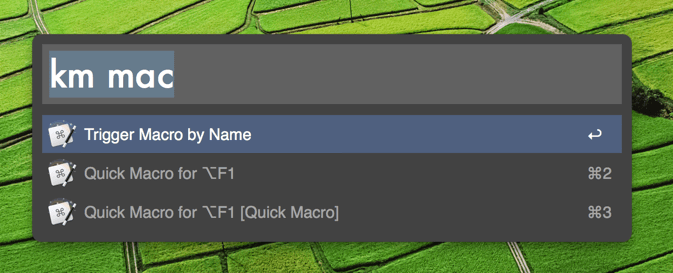
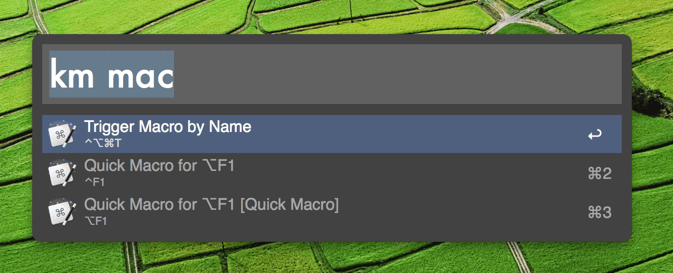
Display macro hotkey in item's subtitle #8

Changed region(s): [[0.1248, 0.7033, 0.4993, 0.8205], [0.1248, 0.4396, 0.3744, 0.5568], [0.1248, 0.5861, 0.3432, 0.674]]

diff --git a/macros.go b/macros.go
@@ -27,44 +27,79 @@ type KmMacro struct {
 	UID      string
 	Name     string
 	Category string
+	Hotkey   string
 }
 
-func getKmMacros() ([]KmMacro, error) {
+func getKmMacros() (map[string]KmMacro, error) {
 	// Allow to change the command for fetching macros, so the function could be unit-tested
-	command := os.Getenv("KM_MACROS_FETCH_COMMAND")
-	if command == "" {
-		command = "osascript ./km.scpt"
+	getAllMacrosCommand := os.Getenv("GET_ALL_KM_MACROS_COMMAND")
+	if getAllMacrosCommand == "" {
+		getAllMacrosCommand = "osascript ./get_all_km_macros.scpt"
 	}
 
-	out, err := exec.Command("sh", "-c", command).Output()
-
+	categoriesWithAllMacros, err := getKmCategories(getAllMacrosCommand)
 	if err != nil {
-		return nil, errors.New("Unable to get macros from Keyboard Maestro")
+		return nil, err
 	}
 
-	if !strings.Contains(string(out), "<?xml") {
-		return nil, errors.New(string(out))
+	getHotkeyMacrosCommand := os.Getenv("GET_HOTKEY_KM_MACROS_COMMAND")
+	if getHotkeyMacrosCommand == "" {
+		getHotkeyMacrosCommand = "osascript ./get_hotkey_km_macros.scpt"
 	}
 
-	var categories KmCategories
-	err = xml.Unmarshal(out, &categories)
+	categoriesWithHotKeyMacros, err := getKmCategories(getHotkeyMacrosCommand)
 	if err != nil {
-		return nil, errors.New("Unable to get macros from Keyboard Maestro")
+		return nil, err
 	}
 
-	var macros []KmMacro
+	macros := make(map[string]KmMacro)
+	var uid string
 
-	for _, category := range categories.Categories {
+	for _, category := range categoriesWithAllMacros.Categories {
 		for _, item := range category.Items {
-			macros = append(macros, KmMacro{
-				UID:      item.getValueByKey("uid"),
+			uid = item.getValueByKey("uid")
+			macros[uid] = KmMacro{
+				UID:      uid,
 				Name:     item.getValueByKey("name"),
 				Category: category.getValueByKey("name"),
-			})
+				Hotkey:   "",
+			}
+		}
+	}
+
+	for _, category := range categoriesWithHotKeyMacros.Categories {
+		for _, item := range category.Items {
+			uid = item.getValueByKey("uid")
+			macro, isExists := macros[uid]
+			if isExists == true {
+				macro.Hotkey = item.getValueByKey("key")
+				// TODO Use pointer instead?
+				macros[uid] = macro
+			}
 		}
 	}
 
 	return macros, nil
+}
+
+func getKmCategories(command string) (KmCategories, error) {
+	out, err := exec.Command("sh", "-c", command).Output()
+
+	var categories KmCategories
+	if err != nil {
+		return categories, errors.New("Unable to get macros from Keyboard Maestro")
+	}
+
+	if !strings.Contains(string(out), "<?xml") {
+		return categories, errors.New(string(out))
+	}
+
+	err = xml.Unmarshal(out, &categories)
+	if err != nil {
+		return categories, errors.New("Unable to get macros from Keyboard Maestro")
+	}
+
+	return categories, nil
 }
 
 func (item KmItem) getValueByKey(requestedKey string) string {

diff --git a/macros_test.go b/macros_test.go
@@ -5,18 +5,18 @@ import (
 )
 
 func TestGetKmMacros(t *testing.T) {
-	expectedMacros := [3]KmMacro{
-		KmMacro{"UID-MACRO-1", "Macro #1", "Category #1"},
-		KmMacro{"UID-MACRO-2", "Macro #2", "Category #1"},
-		KmMacro{"UID-MACRO-3", "Macro #3", "Category #2"},
+	expectedMacros := map[string]KmMacro{
+		"UID-MACRO-1": KmMacro{"UID-MACRO-1", "Macro #1", "Category #1", ""},
+		"UID-MACRO-2": KmMacro{"UID-MACRO-2", "Macro #2", "Category #1", "⌃⌥⌘X"},
+		"UID-MACRO-3": KmMacro{"UID-MACRO-3", "Macro #3", "Category #2", "⌃⌥⌘R"},
 	}
 
 	actualMacros, err := getKmMacros()
 
 	assertEqual(t, err, nil)
 	assertEqual(t, len(expectedMacros), len(actualMacros))
-	for i, expectedMacro := range expectedMacros {
-		assertEqual(t, expectedMacro, actualMacros[i])
+	for uid, expectedMacro := range expectedMacros {
+		assertEqual(t, expectedMacro, actualMacros[uid])
 	}
 }
 

diff --git a/main.go b/main.go
@@ -11,9 +11,15 @@ var wf *aw.Workflow
 func run() {
 	var kmMacroErr error
 	reload := func() (interface{}, error) {
-		macros, err := getKmMacros()
+		macrosIndex, err := getKmMacros()
+
 		if err != nil {
 			kmMacroErr = err
+		}
+
+		var macros []KmMacro
+		for _, macro := range macrosIndex {
+			macros = append(macros, macro)
 		}
 
 		return macros, err
@@ -36,8 +42,12 @@ func run() {
 		return
 	}
 
+	var item *aw.Item
 	for _, macro := range macros {
-		wf.NewItem(macro.Name).UID(macro.UID).Valid(true).Arg(macro.UID)
+		item = wf.NewItem(macro.Name).UID(macro.UID).Valid(true).Arg(macro.UID)
+		if macro.Hotkey != "" {
+			item.Subtitle(macro.Hotkey)
+		}
 	}
 
 	args := wf.Args()
